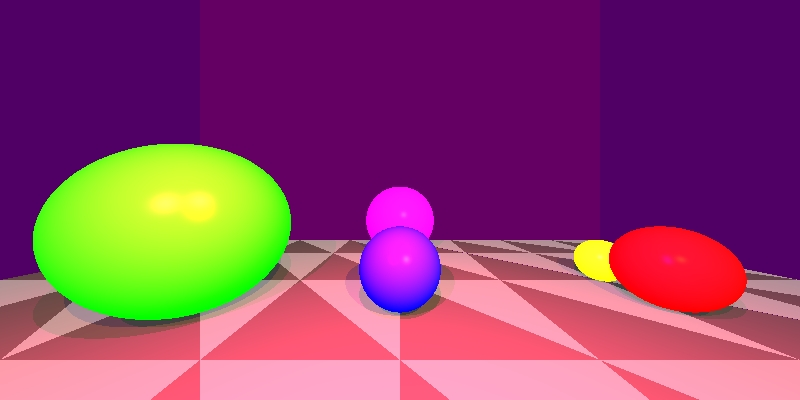
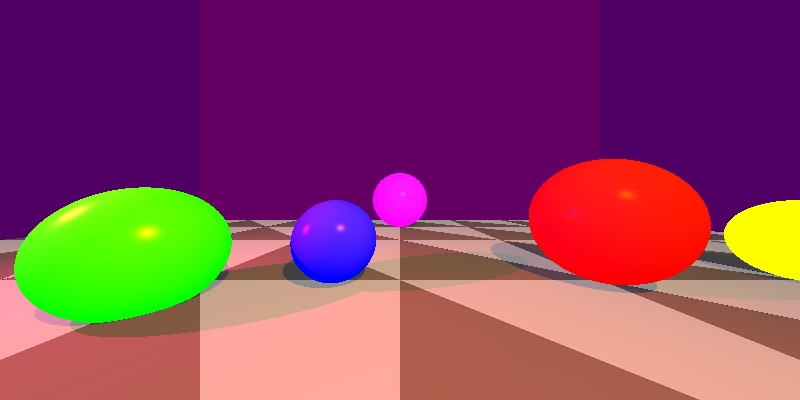
10/06/2020 Mini project

diff --git a/src/renderer/RenderMultithread.java b/src/renderer/RenderMultithread.java
@@ -1,0 +1,186 @@
+//package renderer;
+//import elements.*;
+//import primitives.*;
+//import java.util.List;
+//import scene.Scene;
+//
+///**
+// * Renderer class is responsible for generating pixel color map from a graphic
+// * scene, using ImageWriter class
+// *
+// * @author Dan
+// */
+//public class Render {
+//    private Scene _scene;
+//    private ImageWriter _imageWriter;
+//    private int _threads = 1;
+//    private final int SPARE_THREADS = 2;
+//    private boolean _print = false;
+//
+//    /**
+//     * Pixel is an internal helper class whose objects are associated with a Render object that
+//     * they are generated in scope of. It is used for multithreading in the Renderer and for follow up
+//     * its progress.<br/>
+//     * There is a main follow up object and several secondary objects - one in each thread.
+//     * @author Dan
+//     *
+//     */
+//    private class Pixel {
+//        private long _maxRows = 0;
+//        private long _maxCols = 0;
+//        private long _pixels = 0;
+//        public volatile int row = 0;
+//        public volatile int col = -1;
+//        private long _counter = 0;
+//        private int _percents = 0;
+//        private long _nextCounter = 0;
+//
+//        /**
+//         * The constructor for initializing the main follow up Pixel object
+//         * @param maxRows the amount of pixel rows
+//         * @param maxCols the amount of pixel columns
+//         */
+//        public Pixel(int maxRows, int maxCols) {
+//            _maxRows = maxRows;
+//            _maxCols = maxCols;
+//            _pixels = maxRows * maxCols;
+//            _nextCounter = _pixels / 100;
+//            if (Render.this._print) System.out.printf("\r %02d%%", _percents);
+//        }
+//
+//        /**
+//         *  Default constructor for secondary Pixel objects
+//         */
+//        public Pixel() {}
+//
+//        /**
+//         * Internal function for thread-safe manipulating of main follow up Pixel object - this function is
+//         * critical section for all the threads, and main Pixel object data is the shared data of this critical
+//         * section.<br/>
+//         * The function provides next pixel number each call.
+//         * @param target target secondary Pixel object to copy the row/column of the next pixel
+//         * @return the progress percentage for follow up: if it is 0 - nothing to print, if it is -1 - the task is
+//         * finished, any other value - the progress percentage (only when it changes)
+//         */
+//        private synchronized int nextP(Pixel target) {
+//            ++col;
+//            ++_counter;
+//            if (col < _maxCols) {
+//                target.row = this.row;
+//                target.col = this.col;
+//                if (_counter == _nextCounter) {
+//                    ++_percents;
+//                    _nextCounter = _pixels * (_percents + 1) / 100;
+//                    return _percents;
+//                }
+//                return 0;
+//            }
+//            ++row;
+//            if (row < _maxRows) {
+//                col = 0;
+//                if (_counter == _nextCounter) {
+//                    ++_percents;
+//                    _nextCounter = _pixels * (_percents + 1) / 100;
+//                    return _percents;
+//                }
+//                return 0;
+//            }
+//            return -1;
+//        }
+//
+//        /**
+//         * Public function for getting next pixel number into secondary Pixel object.
+//         * The function prints also progress percentage in the console window.
+//         * @param target target secondary Pixel object to copy the row/column of the next pixel
+//         * @return true if the work still in progress, -1 if it's done
+//         */
+//        public boolean nextPixel(Pixel target) {
+//            int percents = nextP(target);
+//            if (percents > 0)
+//                if (Render.this._print) System.out.printf("\r %02d%%", percents);
+//            if (percents >= 0)
+//                return true;
+//            if (Render.this._print) System.out.printf("\r %02d%%", 100);
+//            return false;
+//        }
+//    }
+//
+//    /**
+//     * This function renders image's pixel color map from the scene included with
+//     * the Renderer object
+//     */
+//    public void renderImage() {
+//        final int nX = _imageWriter.getNx();
+//        final int nY = _imageWriter.getNy();
+//        final double dist = _scene.getDistance();
+//        final double width = _imageWriter.getWidth();
+//        final double height = _imageWriter.getHeight();
+//        final Camera camera = _scene.getCamera();
+//
+//        final Pixel thePixel = new Pixel(nY, nX);
+//
+//        // Generate threads
+//        Thread[] threads = new Thread[_threads];
+//        for (int i = _threads - 1; i >= 0; --i) {
+//            threads[i] = new Thread(() -> {
+//                Pixel pixel = new Pixel();
+//                while (thePixel.nextPixel(pixel)) {
+//                    Ray rays = camera.constructRayThroughPixel(nX, nY, pixel.col, pixel.row, //
+//                            dist, width, height);
+//                    _imageWriter.writePixel(pixel.col, pixel.row, calcColor(rays).getColor());
+//                }
+//            });
+//        }
+//
+//        // Start threads
+//        for (Thread thread : threads) thread.start();
+//
+//        // Wait for all threads to finish
+//        for (Thread thread : threads) try { thread.join(); } catch (Exception e) {}
+//        if (_print) System.out.printf("\r100%%\n");
+//    }
+//
+//    /**
+//     * Set multithreading <br>
+//     * - if the parameter is 0 - number of coress less 2 is taken
+//     *
+//     * @param threads number of threads
+//     * @return the Render object itself
+//     */
+//    public Render setMultithreading(int threads) {
+//        if (threads < 0)
+//            throw new IllegalArgumentException("Multithreading patameter must be 0 or higher");
+//        if (threads != 0)
+//            _threads = threads;
+//        else {
+//            int cores = Runtime.getRuntime().availableProcessors() - SPARE_THREADS;
+//            if (cores <= 2)
+//                _threads = 1;
+//            else
+//                _threads = cores;
+//        }
+//        return this;
+//    }
+//
+//    /**
+//     * Set debug printing on
+//     *
+//     * @return the Render object itself
+//     */
+//    public Render setDebugPrint() {
+//        _print = true;
+//        return this;
+//    }
+//}
+//
+//// Example for setting multithreading and debug print in test files:
+//        ......
+//                ImageWriter imageWriter = new ImageWriter("teapot", 200, 200, 800, 800);
+//                Render render = new Render(imageWriter, scene) //
+//                .setMultithreading(3) //
+//                .setDebugPrint();
+//
+//                render.renderImage();
+//                // render.printGrid(50, java.awt.Color.YELLOW);
+//                render.writeToImage();
+//

diff --git a/src/Main.java b/src/Main.java
@@ -24,7 +24,7 @@ public final class Main {
                 .addAmbientLight(new AmbientLight(Color.BLACK, 0))
                 .addCamera(
                         new Camera(
-                                new Point3D(0, -400, 0),
+                                new Point3D(0, -200, 0),
                                 new Vector(0, 0, 1),
                                 new Vector(0, -1, 0)))
                 .addDistance(100)
@@ -37,14 +37,14 @@ public final class Main {
                 scene.addGeometries(
                         new Triangle(
                                 new Color(32, 32, 32),
-                                new Material(0.5, 0.1, 60),
+                                new Material(0.5, 0.5, 60),
                                 new Point3D(i, 0, j),
                                 new Point3D(i + 500, 0, j),
                                 new Point3D(i, 0, j + 500)),
 
                         new Triangle(
                                 new Color(70, 70, 70),
-                                new Material(0.5, 0.1, 60),
+                                new Material(0.5, 0.5, 60),
                                 new Point3D(i, 0, j + 500),
                                 new Point3D(i + 500, 0, j + 500),
                                 new Point3D(i + 500, 0, j))
@@ -66,28 +66,28 @@ public final class Main {
                 new Plane(
                         new Color(40, 0, 50),
                         new Point3D(2000, 0, 0),
-                        new Vector(1, 0, 0)
-                ),
+                        new Vector(1, 0, 0)),
+
                 new Sphere(
                         new Color(java.awt.Color.BLUE),
-                        new Material(0.5, 0.9, 80), 150,
-                        new Point3D(0, -150, 750)),
+                        new Material(0.5, 0.9, 80), 100,
+                        new Point3D(-160, -100, 500)),
 
                 new Sphere(new Color(java.awt.Color.GREEN),
-                        new Material(0.5, 0.9, 50), 300,
-                        new Point3D(-750, -300, 750)),
+                        new Material(0.5, 0.9, 50), 125,
+                        new Point3D(-500, -100, 400)),
 
                 new Sphere(new Color(java.awt.Color.YELLOW),
                         new Material(0.5, 0.9, 60), 100,
-                        new Point3D(1000, -100, 1000)),
+                        new Point3D(1000, -100, 500)),
 
                 new Sphere(new Color(java.awt.Color.magenta),
-                        new Material(0.5, 0.9, 70), 250,
-                        new Point3D(0, -250, 1500)),
+                        new Material(0.5, 0.9, 70), 200,
+                        new Point3D(0, -200, 1500)),
 
                 new Sphere(new Color(java.awt.Color.RED),
                         new Material(0.5, 0.9, 90), 150,
-                        new Point3D(1000, -150, 750))
+                        new Point3D(500, -150, 500))
 
         );
 
@@ -98,15 +98,15 @@ public final class Main {
         scene.addLights(
                 new SpotLight(
                         new Color(255, 0, 100),
-                        new Point3D(-400, -1000, -400),
+                        new Point3D(-1000, -500, 200),
                         new Vector(1, 1, 1),
                         1, 1E-5, 1.5E-7));
-        scene.addLights(
-                new SpotLight(
-                        new Color(255, 0, 100),
-                        new Point3D(0, -1000, 0),
-                        new Vector(0, 1, 0),
-                        1, 1E-5, 1.5E-7));
+//        scene.addLights(
+//                new SpotLight(
+//                        new Color(255, 0, 100),
+//                        new Point3D(0, -1000, 0),
+//                        new Vector(0, 1, 0),
+//                        1, 1E-5, 1.5E-7));
         scene.addLights(
                 new SpotLight(
                         new Color(255, 100, 0),
